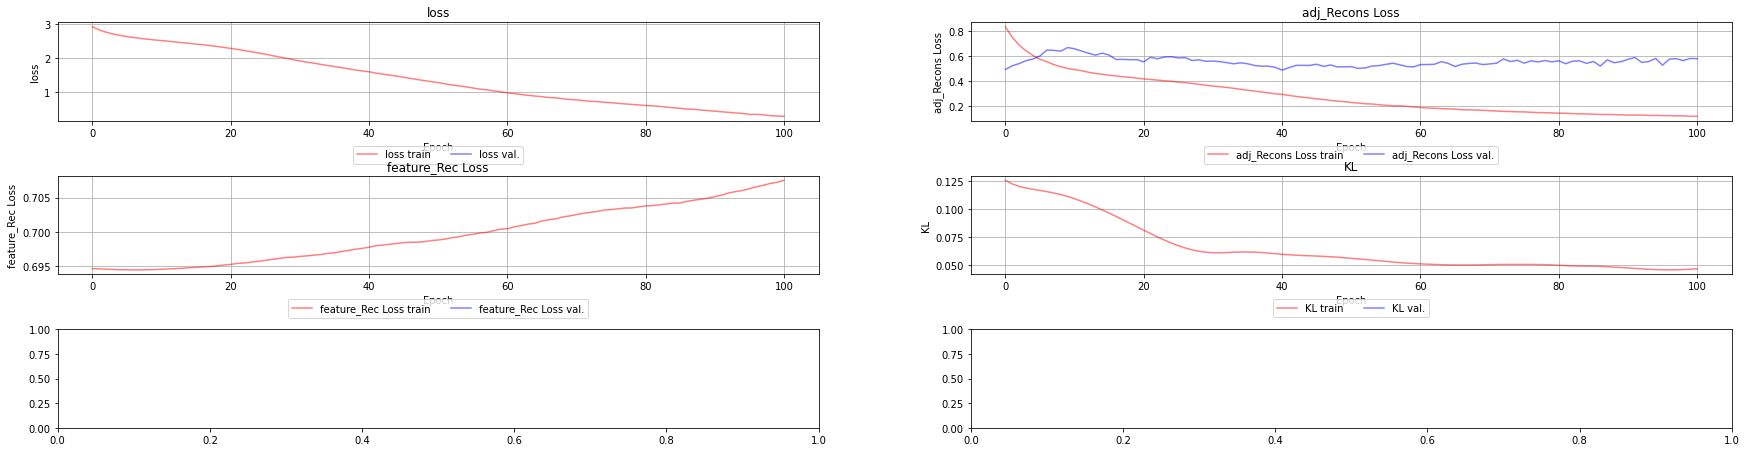
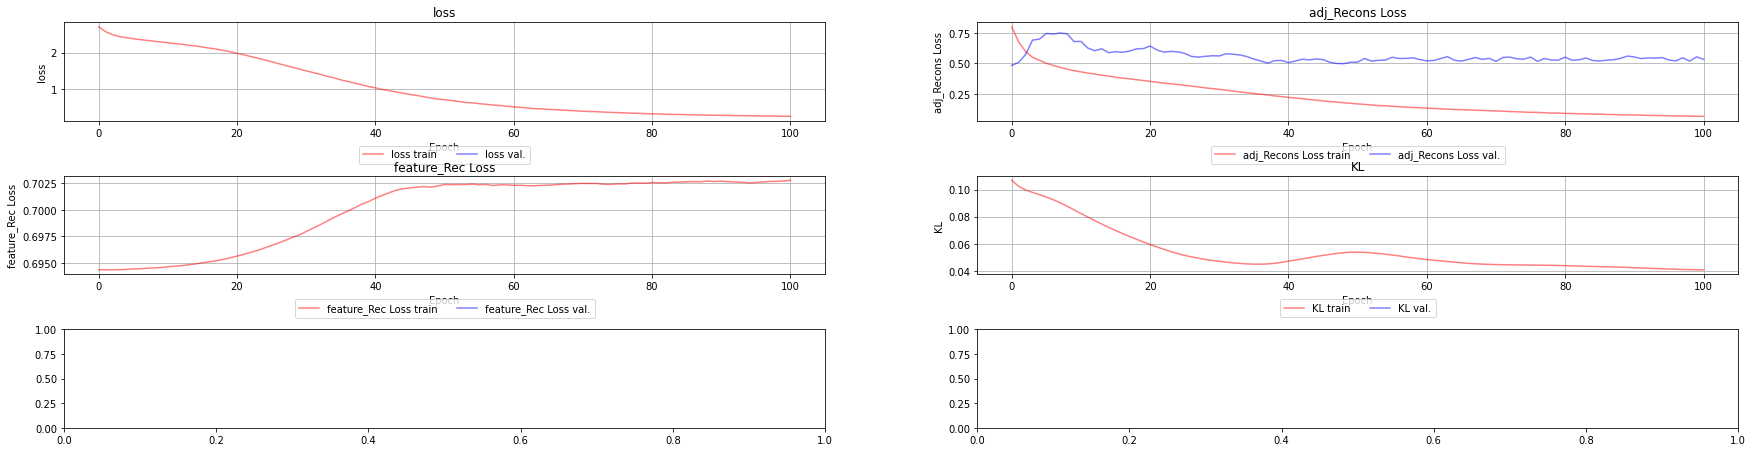
changed the label type of acm

diff --git a/RuleLearning.py b/RuleLearning.py
@@ -38,7 +38,7 @@ parser = argparse.ArgumentParser(description='VGAE Framework')
 parser.add_argument('-e', dest="epoch_number", type=int, default=101, help="Number of Epochs")
 parser.add_argument('-v', dest="Vis_step", type=int, default=20, help="model learning rate")
 parser.add_argument('-lr', dest="lr", type=float, default=0.001, help="number of epoch at which the error-plot is visualized and updated")
-parser.add_argument('-dataset', dest="dataset", default="citeseer",
+parser.add_argument('-dataset', dest="dataset", default="acm",
                     help="possible choices are: cora, citeseer, pubmed, IMDB, DBLP, ACM")
 parser.add_argument('-hemogenize', dest="hemogenize", default=False, help="either withhold the layers (edges types) during training or not")
 parser.add_argument('-NofCom', dest="num_of_comunities", type=int, default=64,

diff --git a/input_data.py b/input_data.py
@@ -423,7 +423,7 @@ def acm_homogenized():
         adjacency_matrix[end_node, start_node] = 1  # For und
     
     features = ds['x'].numpy()
-    label = ds['y']
+    label = torch.tensor(ds['y'])
     _, important_feat_ids = reduce_node_features(np.array(features), label, 0)
     important_feats = features[:, important_feat_ids]
     feats_for_reconstruction = np.where(important_feats >= 1, 1, 0)

diff --git a/setup.py b/setup.py
@@ -8,7 +8,7 @@ import torch
 
 
 def setup_function(db_name):
-    db = db_name = "imdb"
+    db = db_name
     host_name = 'database-1.cxcqxpvbnnwo.us-east-2.rds.amazonaws.com'
     user_name = "admin"
     password_name = "newPassword"
